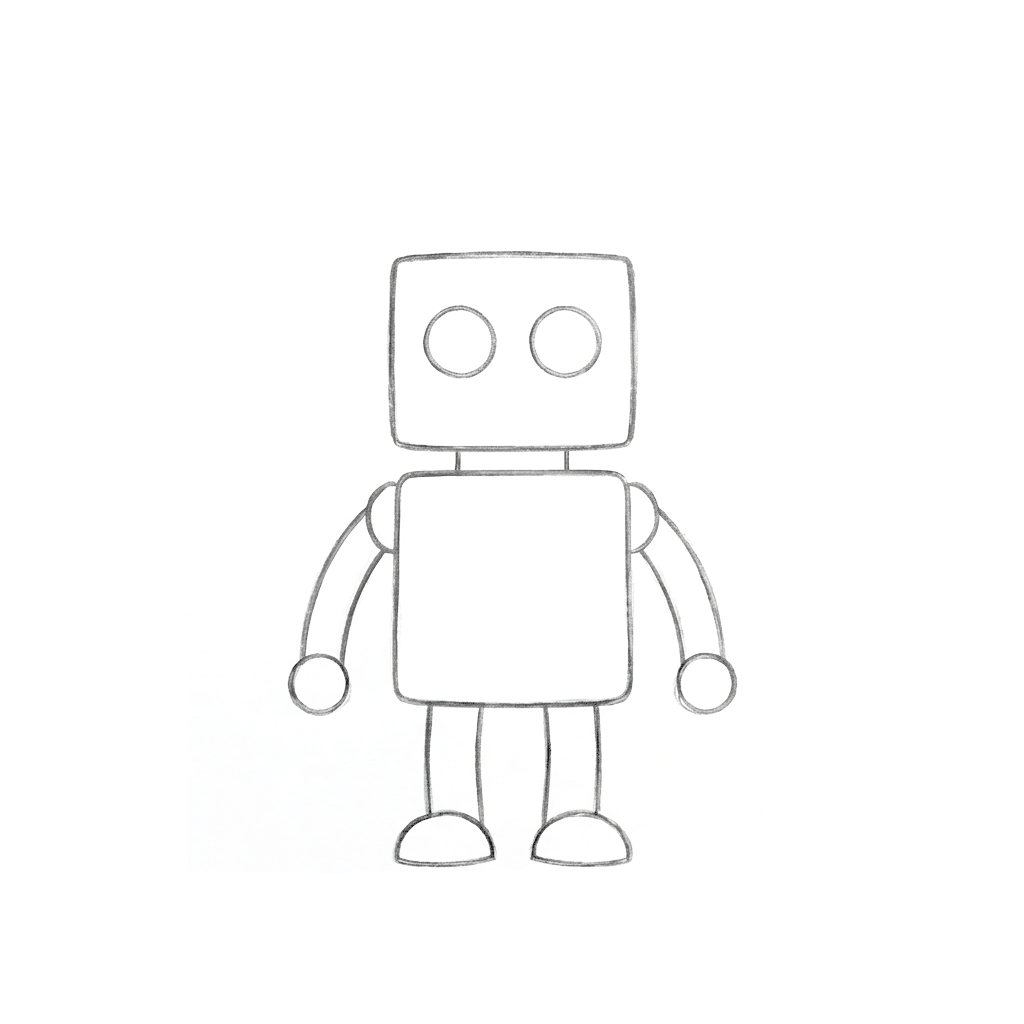
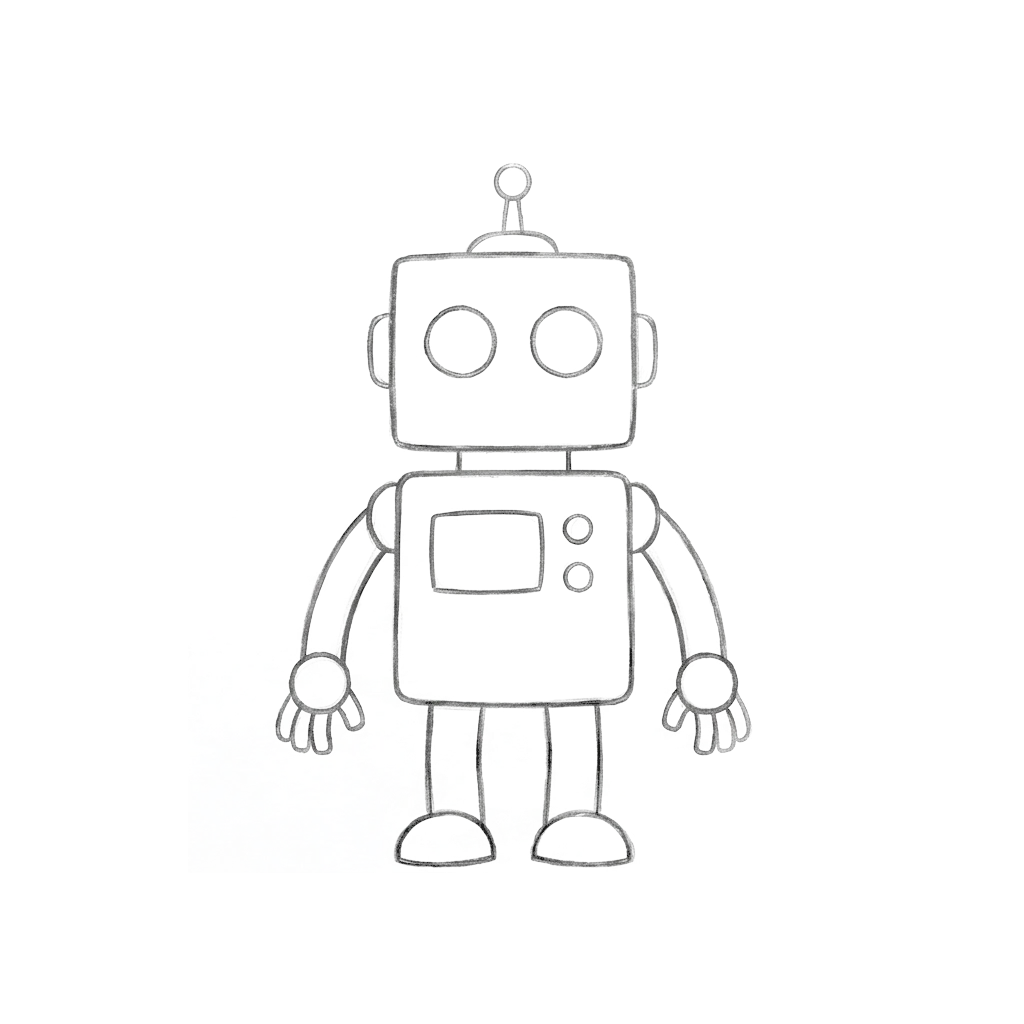
feat: add caterpillar/bee/axolotl drawings, fix robot's regressing step 5
New guided-drawing sets, published under all three age bands (per-age sets
don't exist yet, so 6-8/9-11/12-15 all show the same panels for now):
- caterpillar (8 steps), bee (7 steps), axolotl (6 steps)

Robot went from 8 steps to 7: the original step 5 went BACKWARDS — the
antenna and ears added in step 4 disappeared, then reappeared in step 6.
Since panels must be strictly cumulative, that step was dropped and 6/7/8
were renumbered to 5/6/7. Verified by measuring ink-pixel count per step
(monotonically increasing after the fix) and walking the full 7-step flow
in-browser. Storage's stale step-08 was removed for all three age groups;
step_count and the tip copy were updated to match.

diff --git a/src/screens/DrawingsScreen.jsx b/src/screens/DrawingsScreen.jsx
@@ -63,6 +63,33 @@ const STEP_TIPS = {
     'Add a happy wagging tail!',
     'Add the spots — all done!',
   ],
+  bee: [
+    'Draw a circle for the head.',
+    'Add a big oval body behind it.',
+    'Two curly antennae with little balls on top.',
+    'Draw two big round eyes.',
+    'Add a happy smile.',
+    'Two big wings and tiny legs.',
+    'Add the stripes and a stinger — buzz, done!',
+  ],
+  axolotl: [
+    'Draw a big round head.',
+    'Add a chubby body and little arms.',
+    'Two big shiny eyes.',
+    'Add a happy open smile.',
+    'Feathery gills on both sides and a long tail.',
+    'Go over your lines and add shading — done!',
+  ],
+  caterpillar: [
+    'Draw a big circle for the head.',
+    'Add a round body part behind it.',
+    'Keep adding circles to make the body longer.',
+    'Two big eyes and a happy smile.',
+    'Add two curly antennae on top.',
+    'Little legs under each body part.',
+    'Add spots and stripes on the body.',
+    'Draw a leaf under your caterpillar — done!',
+  ],
   house: [
     'Draw a big square for the walls.',
     'Put a triangle roof on top.',
@@ -73,12 +100,14 @@ const STEP_TIPS = {
     'Draw a path and a little fence.',
     'Add bricks, grass and a sun — all done!',
   ],
+  // Seven steps, not eight: the original step 5 went BACKWARDS (the antenna and
+  // ears it had just added disappeared again), so it was dropped and the rest
+  // renumbered. Step 4 → 5 now only ever adds.
   robot: [
     'Draw a square for the head.',
     'Add a big square body underneath.',
     'Bendy arms, round hands, legs and feet.',
     'An antenna, two big eyes and side ears.',
-    'Neaten the shapes and round the corners.',
     'Add a screen and buttons on the tummy.',
     'Bolts on the corners and little fingers.',
     'Add shading and details — beep boop, done!',